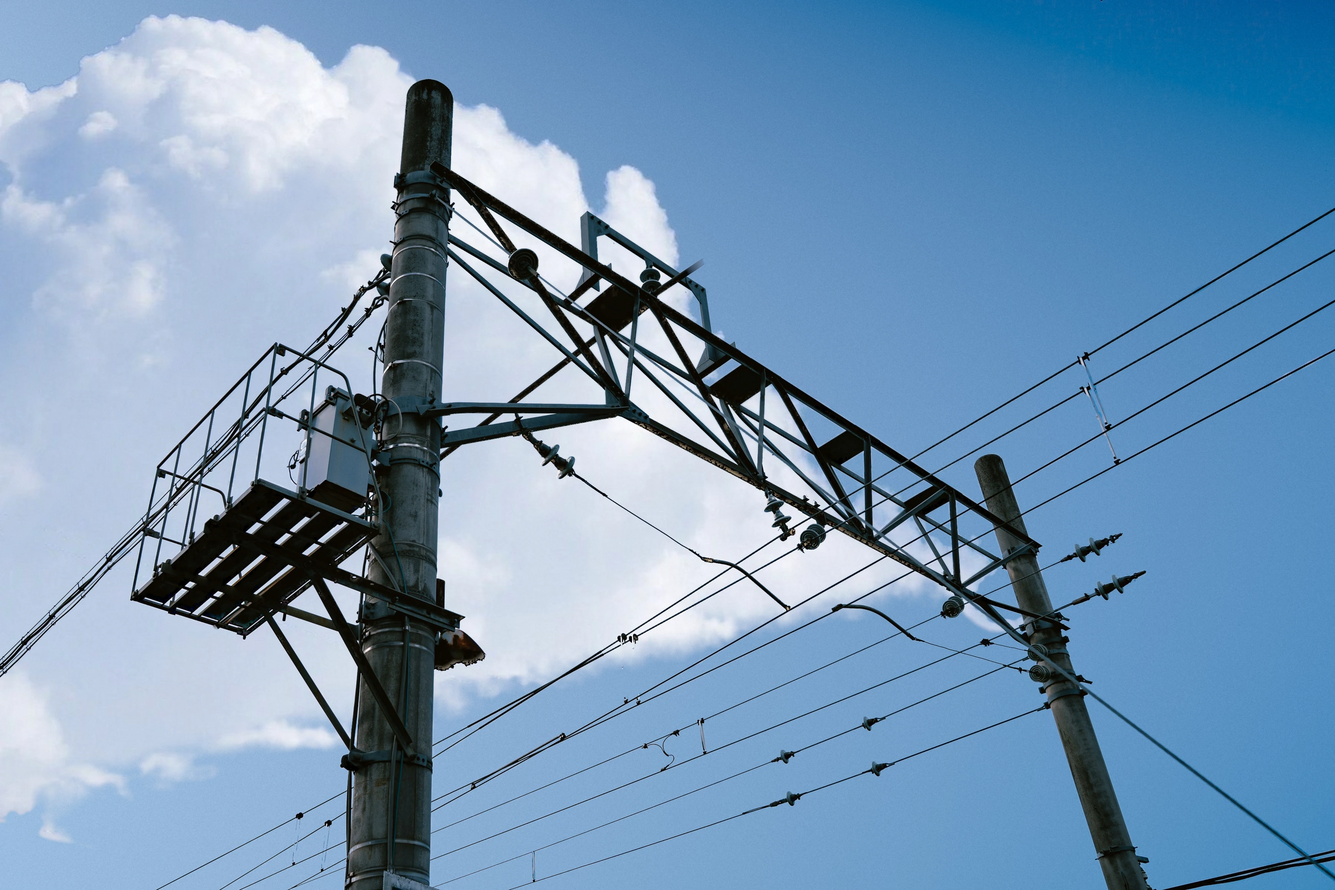
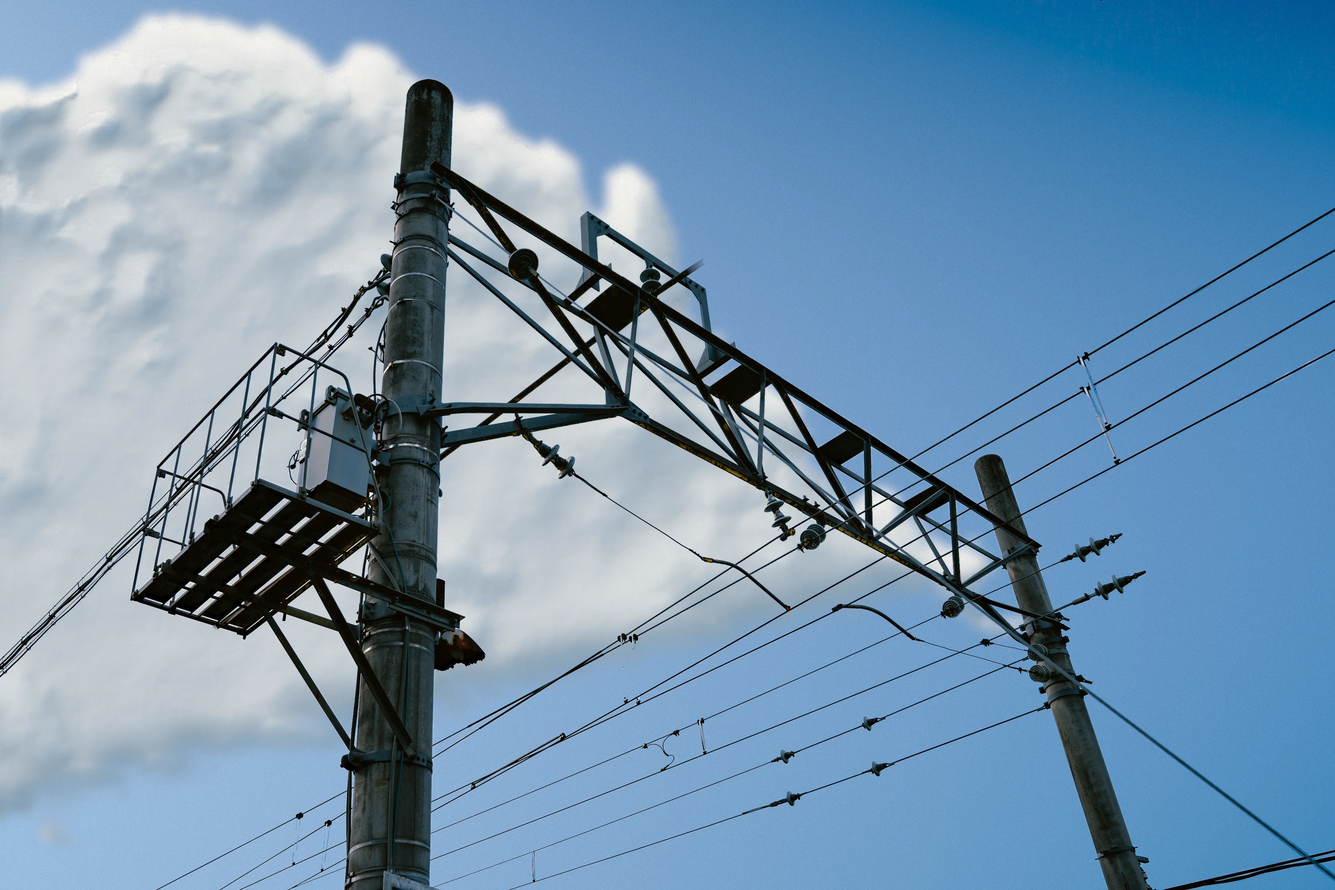
Lab: climb catenary round 1
Claude-Session: https://claude.ai/code/session_01RqENhngNCzDFmJWDZueXGV

diff --git a/src/app/lab/catenary/catenaryEngine.js b/src/app/lab/catenary/catenaryEngine.js
@@ -110,8 +110,8 @@ const FILM = {
 };
 // The plate is split three ways before the film (see PLATE), on a baked key
 // (tools/depth/bakes/catenary/key.py): R is the structure, the depth map's
-// near field snapped to the steel's edges; G and B are the sunlit cloud,
-// blurred thin and wide.
+// near field snapped to the steel's edges; G is the cumulus's feathered
+// matte (sky.py), B the sunlit cloud light, blurred wide.
 //  - Structure (mast, truss, platform, poles, and the live wires): as shot it
 //    carries the sky's cyan-cobalt, so the anchor sinks into it. It is drawn
 //    toward graphite, STRUCT of the way, keeping its own luminance texture,
@@ -154,7 +154,10 @@ const CLOUD_LIFT = 0.2;
 const CLOUD_FROM = 0.6;
 const SCULPT = 0.2;
 const SHADE_TINT = 0.6;
-const CLOUD_SHADE = [0x9d, 0xb6, 0xcf];
+// Hue 205, S 0.34: the film and the paper ease about a third of it off, so
+// the skylit body lands near S 0.25 (it was #9db6cf, which landed grey-blue
+// at S ~0.16 once the cumulus had a shaded side to show it).
+const CLOUD_SHADE = [0x8a, 0xb4, 0xd2];
 // Toward the sun, degrees in the photograph (0 right, 90 up): upper left,
 // where the cumulus tops are brightest as shot.
 const SUN = 125;
@@ -285,7 +288,9 @@ const PRINT_TOE_SAT = [0.6, 0.8];
 // Paper white, display values (luma-normalised at load). ?neutral=,
 // ?neutralFrom=, ?neutralTo= override PRINT_NEUTRAL.
 const PRINT_WHITE = [246, 243, 236];
-const PRINT_NEUTRAL = [196, 236, 0.92];
+// Neutral from 214: the cumulus's skylit body (sky.py's form term) sits at
+// about 190-220 and keeps its blue; only the sunlit billows go paper white.
+const PRINT_NEUTRAL = [214, 240, 0.92];
 
 // Structure toward graphite: luminance kept, lifted out of the black, a
 // slight warm bias. Shared by the plate and the live wires.
@@ -325,7 +330,7 @@ uniform vec2 uRes;   // device px
 uniform vec3 uMap;   // ox, oy, k (device px per view px)
 uniform mat3 uHom;   // view px -> image px: the turned camera
 uniform vec2 uImg;   // image px
-uniform sampler2D uKey; // R structure, G cloud light thin, B cloud light wide
+uniform sampler2D uKey; // R structure, G cloud matte, B cloud light wide
 uniform vec4 uStruct;  // amount, gain, floor, zenith
 uniform vec3 uStructTint;
 uniform vec3 uCloudTop; // linear
@@ -367,7 +372,10 @@ void main() {
   vec3 hm = rgb2hsv(pow(texture(uPlate, uv, 1.5).rgb, vec3(1.0 / 2.2)));
   float hue = hm.x * 360.0;
   float sky = smoothstep(0.08, 0.44, hm.y) * smoothstep(188.0, 198.0, hue) * (1.0 - smoothstep(218.0, 228.0, hue))
-            * smoothstep(0.25, 0.4, hm.z) * (1.0 - key.r);
+            * smoothstep(0.25, 0.4, hm.z) * (1.0 - key.r)
+            // Never the cloud itself (the bake's feathered matte): its skylit
+            // hollows are pale blue by chroma alone and would deepen to cobalt.
+            * (1.0 - key.g);
   // Toward the zenith: the top edge, leaning to the upper right.
   vec2 f = p / uRes;
   float z = clamp(0.82 * (1.0 - f.y) + 0.18 * f.x, 0.0, 1.0);

diff --git a/tools/depth/bakes/catenary/sky.py b/tools/depth/bakes/catenary/sky.py
@@ -24,9 +24,13 @@
 #     pole's upper half, its billowed flank stepping down to the right behind
 #     the truss, the side cut at the source's pole lying past the frame's left
 #     edge. Its own sky is unmixed out of it (cloud opacity from the
-#     red-to-blue ratio, premultiplied), so its thin edges take this sky, not
-#     that one, with no rim of either. It is developed a little brighter (the
-#     brightest tops about 240-244 here, nothing at 255). Below a base line
+#     red-to-blue ratio, then again along each edge pixel's colour line), so
+#     its thin edges take this sky, not that one, and it is laid over this
+#     sky through a soft matte (FEATHER), so no contour of either is left.
+#     Its body is re-lit as a volume from its own light (the form term:
+#     sunlit billows warm paper, the shaded side and the body under the
+#     tower skylight blue; the brightest tops about 236-240 here, nothing at
+#     255). Below a base line
 #     drawn from where the flank leaves the source the cloud gives way to sky
 #     on its own light, so the source's flat lower haze and its cut right
 #     edge never show and nothing is carried on by reflection.
@@ -34,9 +38,10 @@
 #     (1 - steel) times the change of background under it, against the old
 #     background filled in under the steel, so a mast edge that was mixed
 #     with cobalt is now mixed with cloud, and no blue outline is left.
-#  5. The key's cloud light (G, B) is rebuilt from the new plate, and its
+#  5. The key's cloud light (B) is rebuilt from the new plate, and its
 #     structure (R) is let go where the new cloud now shows bright through
-#     the truss, the way key.py lets it go over the old.
+#     the truss, the way key.py lets it go over the old. Its G becomes the
+#     cloud's feathered matte.
 import os
 import shutil
 import sys
@@ -229,8 +234,111 @@ if n > 2:
     am *= keep
     Pm *= keep[..., None]
 
-newbg = sky * (1 - am[..., None]) + GAIN * np.clip(Pm, 0, None)
-ng = lin_to_srgb(newbg) + grain[..., None] * (1 - 0.6 * am[..., None])
+# The matte, feathered. The red-to-blue unmix calls the cloud's edge opaque
+# a dozen px further out than it is: there the source's own sky is still in
+# the pixel, and that grey-blue band, hard against this sky and deepened by
+# the film (its contrast, the polariser, the halation laid on the dark side
+# of a bright edge), read as a dark cobalt contour hugging every lobe. So the
+# edge is unmixed again along its colour line: the cloud's colour is taken
+# from its dense body (eroded past the mixed band) and filled out over its
+# edge, and each pixel's opacity is how far it lies from the source sky
+# toward that colour. The matte is then softened over FEATHER of the frame
+# width (sky to full cloud), so the thin edge is a linear-light mix of the
+# cloud's own white and this sky, light all the way out, with no contour.
+FEATHER = 0.015
+Sm = cv2.remap(sl, sx, sy_, cv2.INTER_CUBIC, borderMode=cv2.BORDER_REPLICATE)
+Km = cv2.remap(ssky, sx, sy_, cv2.INTER_CUBIC, borderMode=cv2.BORDER_REPLICATE)
+dense = smooth(0.6, 0.95, cv2.erode(am, cv2.getStructuringElement(cv2.MORPH_ELLIPSE, (25, 25))))
+col = np.clip(fill(Sm, dense.astype(np.float32)), 0, None)
+dc = col - Km
+a2 = np.clip(((Sm - Km) * dc).sum(-1) / np.maximum((dc * dc).sum(-1), 1e-4), 0, 1)
+a2 *= cv2.dilate(am, cv2.getStructuringElement(cv2.MORPH_ELLIPSE, (15, 15)))
+af = cv2.GaussianBlur(a2.astype(np.float32), (0, 0), FEATHER * W / 4)
+
+# The form. As photographed and developed, the cloud's body under the tower
+# came out one flat pale wash (behind the truss, a 16 px patch varies about
+# 1%): no sunlit tops, no shadowed side, a cut-out sheet of white. So its
+# body is lit again as a volume, from its own light. The cloud's luminance
+# (clean of the steel: this is the cloud before the gantry goes over it) is
+# read as height, at the scale of its lobes and of its masses, and the
+# feathered matte as the rounding of its silhouette; their gradient is a
+# normal, lit by a sun FORM_ELEV degrees off the image plane toward SUN (the
+# upper left, where the steel is lit from too). The cloud between each point
+# and the sun shadows it: the matte, marched toward the sun, is an optical
+# depth (FORM_DEPTH a step). Lit, a billow takes warm paper (TOP); turned
+# away, or under the tower, it takes skylight (SKYLIGHT: hue, saturation,
+# value as it should land in the print, dimmed by FORM_SHADE here, since the
+# film and print lift it), a little less in the folds between lobes. The
+# cloud's own fine texture rides on top. FORM is how far the body takes it.
+FORM = 0.9
+SUN = 125  # degrees, toward the sun (0 right, 90 up), as PLATE in the engine
+FORM_ELEV = 30
+FORM_RELIEF = (10.0, 4.0)  # normal gain on the lobes, on the matte
+FORM_DEPTH = 0.3
+SHADOWED = 0.8  # how much of the sun the deepest body loses
+TOP = (0xF6, 0xF3, 0xEC)
+TOP_Y = 0.92  # linear luma of a fully lit billow
+SKYLIGHT = (205, 0.32, 0.75)  # its saturation set over, the print eases chroma off
+FORM_SHADE = 0.76
+
+
+def gauss(x, s):
+    return cv2.GaussianBlur(x, (0, 0), s)
+
+
+def hsv_rgb(h, s, v):
+    f = [v - v * s * max(0.0, min((k + h / 60) % 6, 4 - (k + h / 60) % 6, 1.0)) for k in (5, 3, 1)]
+    return np.array(f, np.float32)
+
+
+h2 = (W // 2, H // 2)
+ylin = np.clip(GAIN * col @ LUMA, 0, 1).astype(np.float32)
+Ys = cv2.resize(lin_to_srgb(ylin), h2, interpolation=cv2.INTER_AREA)
+As = cv2.resize(af, h2, interpolation=cv2.INTER_AREA)
+
+
+def grad(h, d):
+    gy, gx = np.gradient(h)
+    return gx * 2 * d, gy * 2 * d
+
+
+lx, ly = grad(gauss(Ys, 4), 6)
+mx, my = grad(gauss(Ys, 14), 21)
+ax, ay = grad(gauss(As, 20), 21)
+gx = FORM_RELIEF[0] * (0.75 * lx + mx) + FORM_RELIEF[1] * ax
+gy = FORM_RELIEF[0] * (0.75 * ly + my) + FORM_RELIEF[1] * ay
+# The steepest slopes (the crown's deep hollows) are compressed, the gentle
+# ones (the body's lobes) kept: a hollow shades, it is not punched through.
+gm = np.sqrt(gx * gx + gy * gy)
+gx, gy = gx / (1 + gm / 1.2), gy / (1 + gm / 1.2)
+nl = np.sqrt(gx * gx + gy * gy + 1)
+su = np.array([np.cos(np.radians(SUN)), -np.sin(np.radians(SUN))], np.float32)
+el = np.radians(FORM_ELEV)
+ndl = (-gx * su[0] * np.cos(el) - gy * su[1] * np.cos(el) + np.sin(el)) / nl
+Ab = gauss(As, 4)
+hy, hx = np.mgrid[0 : h2[1], 0 : h2[0]].astype(np.float32)
+od = np.zeros_like(Ab)
+for k in range(1, 17):
+    od += cv2.remap(Ab, hx + su[0] * 12 * k, hy + su[1] * 12 * k, cv2.INTER_LINEAR, borderMode=cv2.BORDER_REPLICATE) * np.exp(-0.06 * k) * 0.5
+# Soft, as a shadow cast through a volume is: no streak along the march.
+od = gauss(od, 10)
+# A crest turned to the sun still catches it inside the shadowed body.
+facing = smooth(0.3, 0.85, ndl)
+sunlit = smooth(-0.3, 0.58, ndl) * (1 - SHADOWED + SHADOWED * np.exp(-FORM_DEPTH * od) ** (1 - 0.6 * facing))
+ao = np.clip(1 + 2.5 * (gauss(Ys, 4) - gauss(Ys, 32)), 0.75, 1.1)
+top = srgb_to_lin(np.array(TOP, np.float32) / 255)
+top *= TOP_Y / float(top @ LUMA)
+shade = srgb_to_lin(hsv_rgb(*SKYLIGHT)) * FORM_SHADE
+lo = shade * ao[..., None] * (1 - sunlit[..., None]) + top * sunlit[..., None]
+lo = cv2.resize(lo, (W, H), interpolation=cv2.INTER_CUBIC)
+detail = np.clip(ylin / np.maximum(gauss(ylin, 4), 1e-4), 0.85, 1.15)
+col = (1 - FORM) * GAIN * col + FORM * lo * detail[..., None]
+if os.environ.get("DEBUG"):
+    cv2.imwrite(WORK + "/form-sunlit.png", (np.clip(sunlit, 0, 1) * 255).astype(np.uint8))
+    cv2.imwrite(WORK + "/form-ndl.png", (np.clip(ndl * 0.5 + 0.5, 0, 1) * 255).astype(np.uint8))
+    cv2.imwrite(WORK + "/form-od.png", (np.clip(np.exp(-FORM_DEPTH * od), 0, 1) * 255).astype(np.uint8))
+newbg = sky * (1 - af[..., None]) + col * af[..., None]
+ng = lin_to_srgb(newbg) + grain[..., None] * (1 - 0.6 * af[..., None])
 newbg = srgb_to_lin(np.clip(ng, 0, 1))
 
 # ---------------------------------------------------------------- composite
@@ -240,7 +348,7 @@ s8 = np.clip(lin_to_srgb(out) * 255 + 0.5, 0, 255).astype(np.uint8)
 cv2.imwrite(PUB + "/plate.webp", s8[:, :, ::-1], [cv2.IMWRITE_WEBP_QUALITY, 92])
 if os.environ.get("DEBUG"):
     cv2.imwrite(WORK + "/fg.png", (fg * 255).astype(np.uint8))
-    cv2.imwrite(WORK + "/cloud-a.png", (am * 255).astype(np.uint8))
+    cv2.imwrite(WORK + "/cloud-a.png", (af * 255).astype(np.uint8))
 
 # ---------------------------------------------------------------- the key
 KW, KH = key.shape[1], key.shape[0]
@@ -254,11 +362,15 @@ s = key[..., 0] * np.clip(f_new / np.maximum(f_old, 1e-3), 0, 1)
 mx, mn = p2.max(2), p2.min(2)
 chroma = (mx - mn) / np.maximum(mx, 1e-4)
 cloud = smooth(0.62, 0.9, y2) * (1 - smooth(0.25, 0.45, chroma)) * (1 - s)
-thin_l = cv2.GaussianBlur(cloud, (0, 0), 0.0035 * KW)
 wide_l = cv2.GaussianBlur(cloud, (0, 0), 0.014 * KW)
-k8 = np.clip(np.stack([s, thin_l, wide_l], -1) * 255 + 0.5, 0, 255).astype(np.uint8)
+# G is the cloud's feathered matte (it was the thin cloud light, which the
+# engine never read): the shader keeps the polariser and the sky's vibrance
+# off the cloud with it, so the skylit hollows stay pale skylight blue and
+# never deepen to the cobalt of open sky.
+matte = cv2.resize(af, (KW, KH), interpolation=cv2.INTER_AREA)
+k8 = np.clip(np.stack([s, matte, wide_l], -1) * 255 + 0.5, 0, 255).astype(np.uint8)
 cv2.imwrite(PUB + "/key.webp", k8[:, :, ::-1], [cv2.IMWRITE_WEBP_QUALITY, 90])
 
-top = np.percentile(lin_to_srgb(out @ LUMA)[am > 0.5] * 255, [50, 99, 99.9]) if (am > 0.5).any() else []
-print("sky.py: grain", round(gstd, 4), "cloud px", int((am > 0.5).sum()), "cloud luma p50/p99/p99.9", np.round(top, 1),
+top = np.percentile(lin_to_srgb(out @ LUMA)[af > 0.5] * 255, [50, 99, 99.9]) if (af > 0.5).any() else []
+print("sky.py: grain", round(gstd, 4), "cloud px", int((af > 0.5).sum()), "cloud luma p50/p99/p99.9", np.round(top, 1),
       "clipped", int((s8 >= 255).all(2).sum()))
